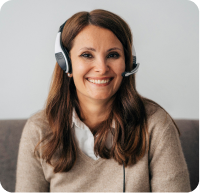
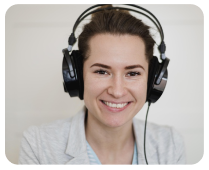
cota magram mshvenieri

diff --git a/app/Components/HomeComponents/Discussions/Discussions.tsx b/app/Components/HomeComponents/Discussions/Discussions.tsx
@@ -3,6 +3,7 @@ import React from "react";
 import Image from "next/image";
 import HeadPhoneGirlImg from "../../../../public/HeadPhoneGirl.png";
 import RatingImg from "../../../../public/Rating.svg";
+import Link from "next/link";
 import { motion } from "motion/react";
 const Discussions = () => {
   return (
@@ -69,13 +70,15 @@ const Discussions = () => {
       </div>
       <div className="mt-[280px] flex justify-center">
         {" "}
-        <motion.button
-          whileHover={{ scale: 1.1 }}
-          whileTap={{ scale: 0.95 }}
-          className="cursor-pointer w-[280px] h-[80px] border-[1px] border-[#49BBBD] rounded-[80px] font-[Nunito_Sans] text-[24px] font-normal text-[#49BBBD] flex items-center justify-center "
-        >
-          See more features
-        </motion.button>
+        <Link href="/confrence">
+          <motion.button
+            whileHover={{ scale: 1.1 }}
+            whileTap={{ scale: 0.95 }}
+            className="cursor-pointer w-[280px] h-[80px] border-[1px] border-[#49BBBD] rounded-[80px] font-[Nunito_Sans] text-[24px] font-normal text-[#49BBBD] flex items-center justify-center "
+          >
+            See more features
+          </motion.button>
+        </Link>
       </div>
     </div>
   );

diff --git a/app/Components/ConfrenceComponents/VideoCall/VideoCall.tsx b/app/Components/ConfrenceComponents/VideoCall/VideoCall.tsx
@@ -1,0 +1,18 @@
+import React from "react";
+import HeadPhoneGirlImg from "../../../../public/HeadPhoneGirl.png";
+import IndianGirlImg from "../../../../public/IndianGirl.png";
+import BoyWithGlassesImg from "../../../../public/BoyWithGlasses.png";
+import Image from "next/image";
+const VideoCall = () => {
+  return (
+    <div className="bg-[url('/TeacherCall.png')] w-[1186px] h-[1076px] mt-[39px] relative">
+      <div className="absolute right-[53px] top-[30px] flex flex-col gap-[16.7px]">
+        <Image src={HeadPhoneGirlImg} alt="HeadPhoneGirlImg"></Image>
+        <Image src={IndianGirlImg} alt="IndianGirlImg"></Image>
+        <Image src={BoyWithGlassesImg} alt="BoyWithGlassesImg"></Image>
+      </div>
+    </div>
+  );
+};
+
+export default VideoCall;

diff --git a/app/Components/ConfrenceComponents/Meeting/Meeting.tsx b/app/Components/ConfrenceComponents/Meeting/Meeting.tsx
@@ -1,0 +1,21 @@
+import React from "react";
+import SettingsImg from "../../../../public/Settings.svg";
+import Image from "next/image";
+const Meeting = () => {
+  return (
+    <div className="w-[1200px] rounded-[26px]  shadow-[0px_5px_10px_0px_grey] py-[35px] pl-[35px] pr-[51px] mt-[50px] flex justify-between">
+      {" "}
+      <div>
+        <h5 className="font-[Poppins] font-semibold text-[#252641] text-[30px]">
+          UX/UI Design Confrence Meeting
+        </h5>
+        <p className="font-[Poppins] font-normal text-[#252641] text-[20px] mt-[11px]">
+          9 Lesson 6h 30min
+        </p>
+      </div>
+      <Image src={SettingsImg} alt="SettingsImg"></Image>
+    </div>
+  );
+};
+
+export default Meeting;

diff --git a/app/confrence/page.tsx b/app/confrence/page.tsx
@@ -1,0 +1,21 @@
+import React from "react";
+import Header from "../Components/Header/Header";
+import Meeting from "../Components/ConfrenceComponents/Meeting/Meeting";
+import VideoCall from "../Components/ConfrenceComponents/VideoCall/VideoCall";
+
+const confrencerouting = () => {
+  return (
+    <div className=" w-[1912px] m-auto">
+      <Header />
+      <div className="ml-[97px]">
+        <div>
+          <Meeting />
+          <VideoCall />
+        </div>
+        <div></div>
+      </div>
+    </div>
+  );
+};
+
+export default confrencerouting;
